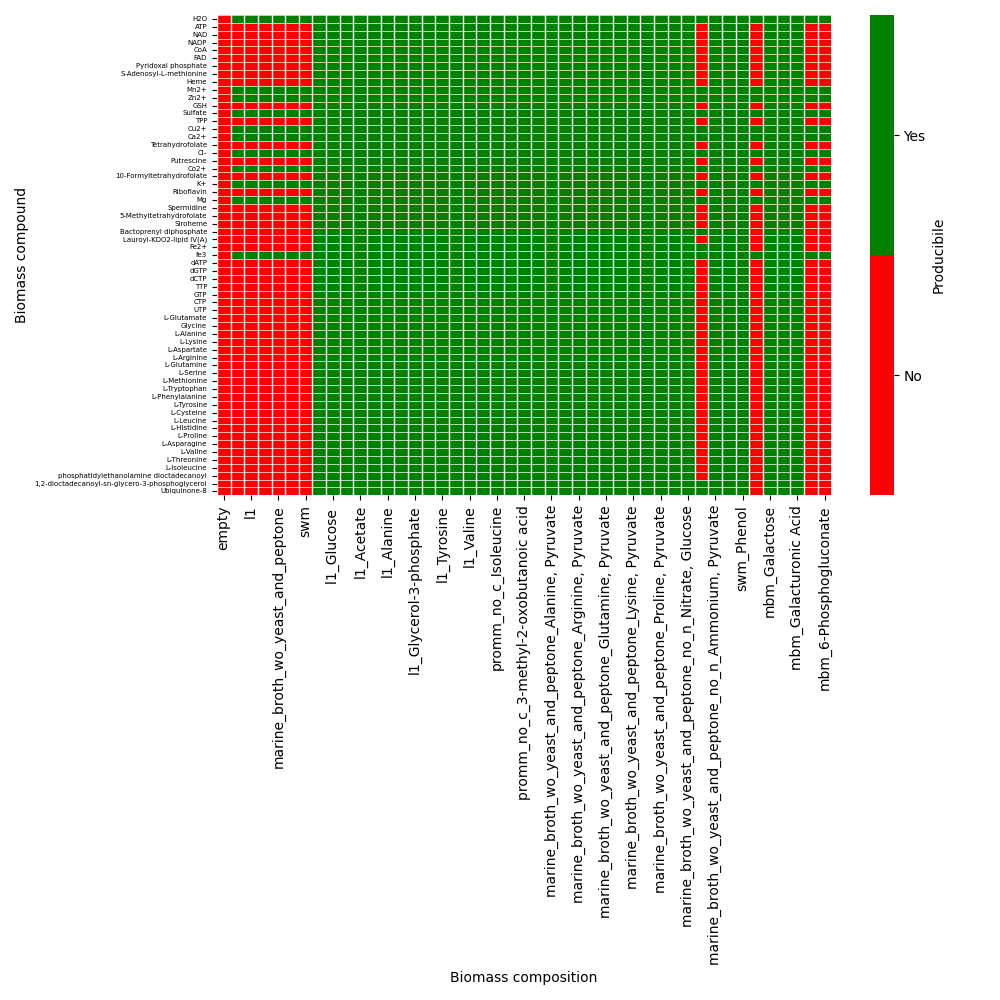
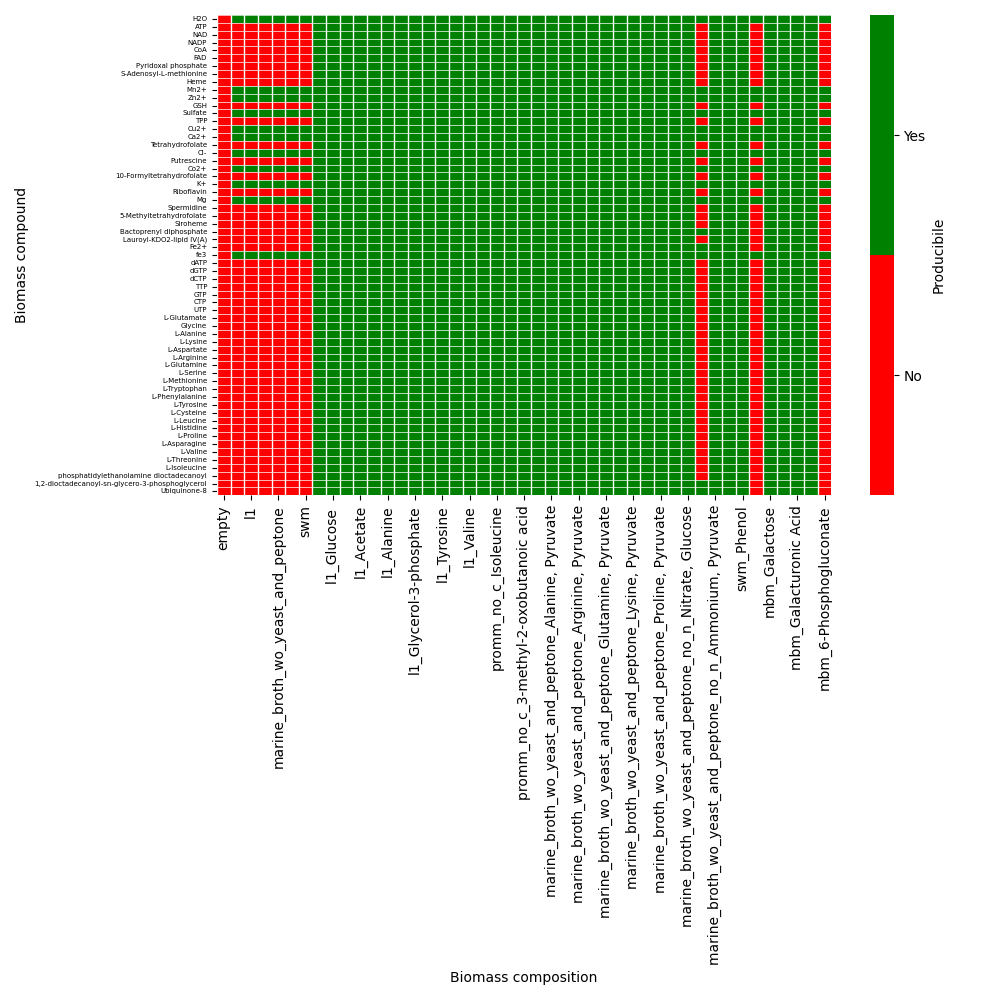
chore: add custom-CI test result

Changed region(s): [[0.806, 0.031, 0.837, 0.496]]

diff --git a/scripts/results/README.md b/scripts/results/README.md
@@ -2,6 +2,6 @@
 
 The results shown here were obtained by the GitHub Actions run in:
 
-- **PR #438** (CUSTOM-CI)
+- **PR #441** (CUSTOM-CI)
 
 The results will be updated by any subsequent pull request. Summary results are shown as a comment in the corresponding pull request.
